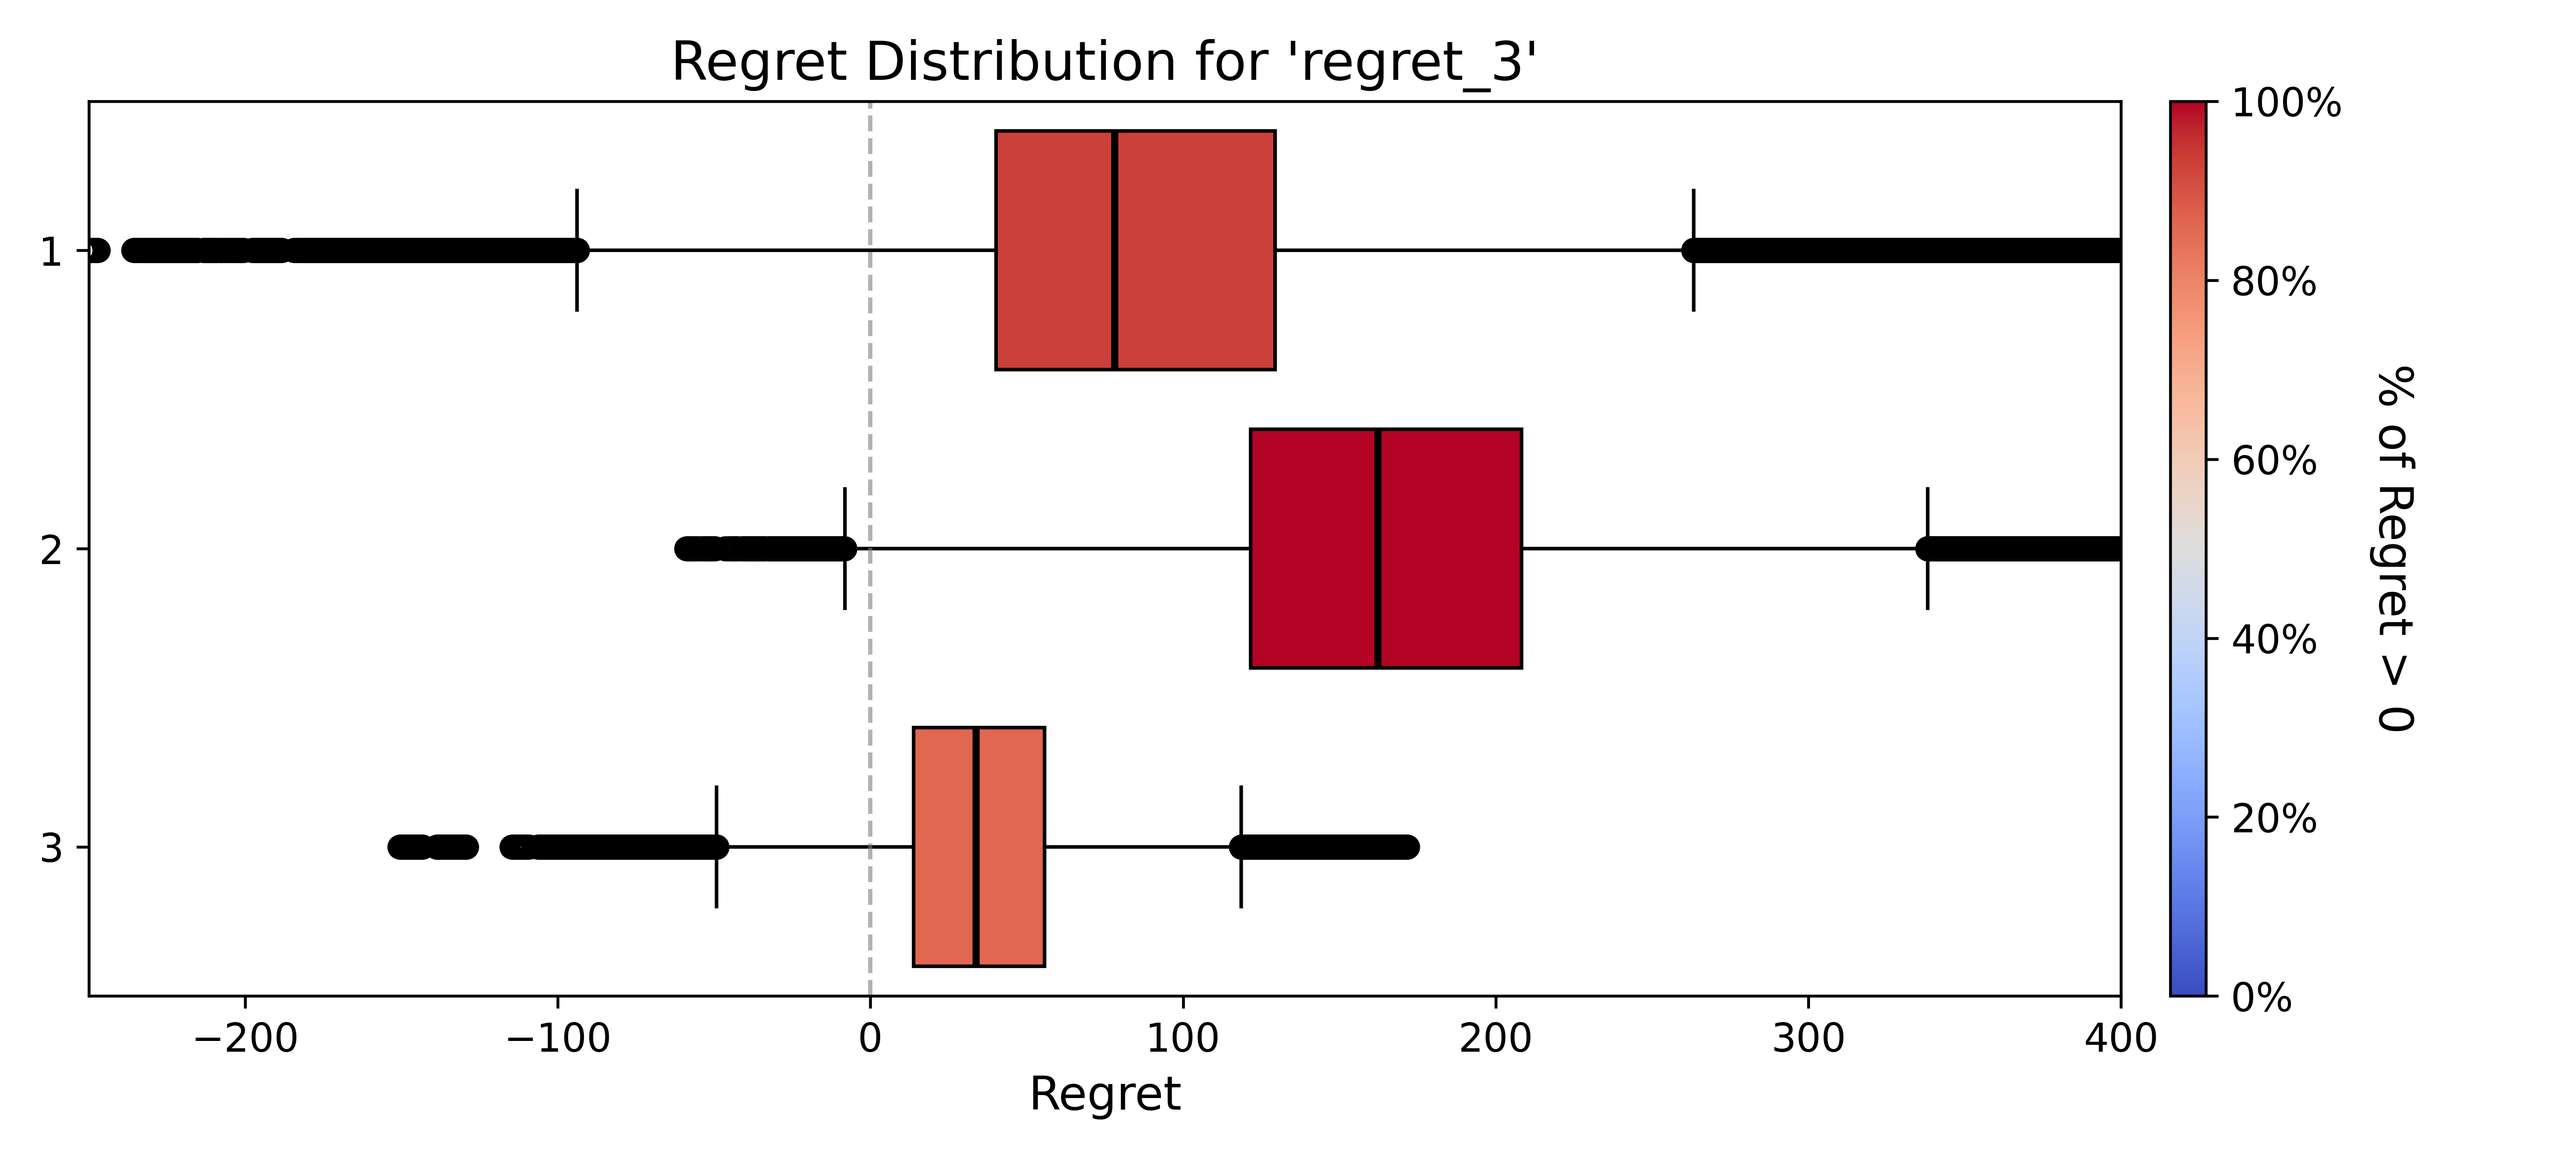
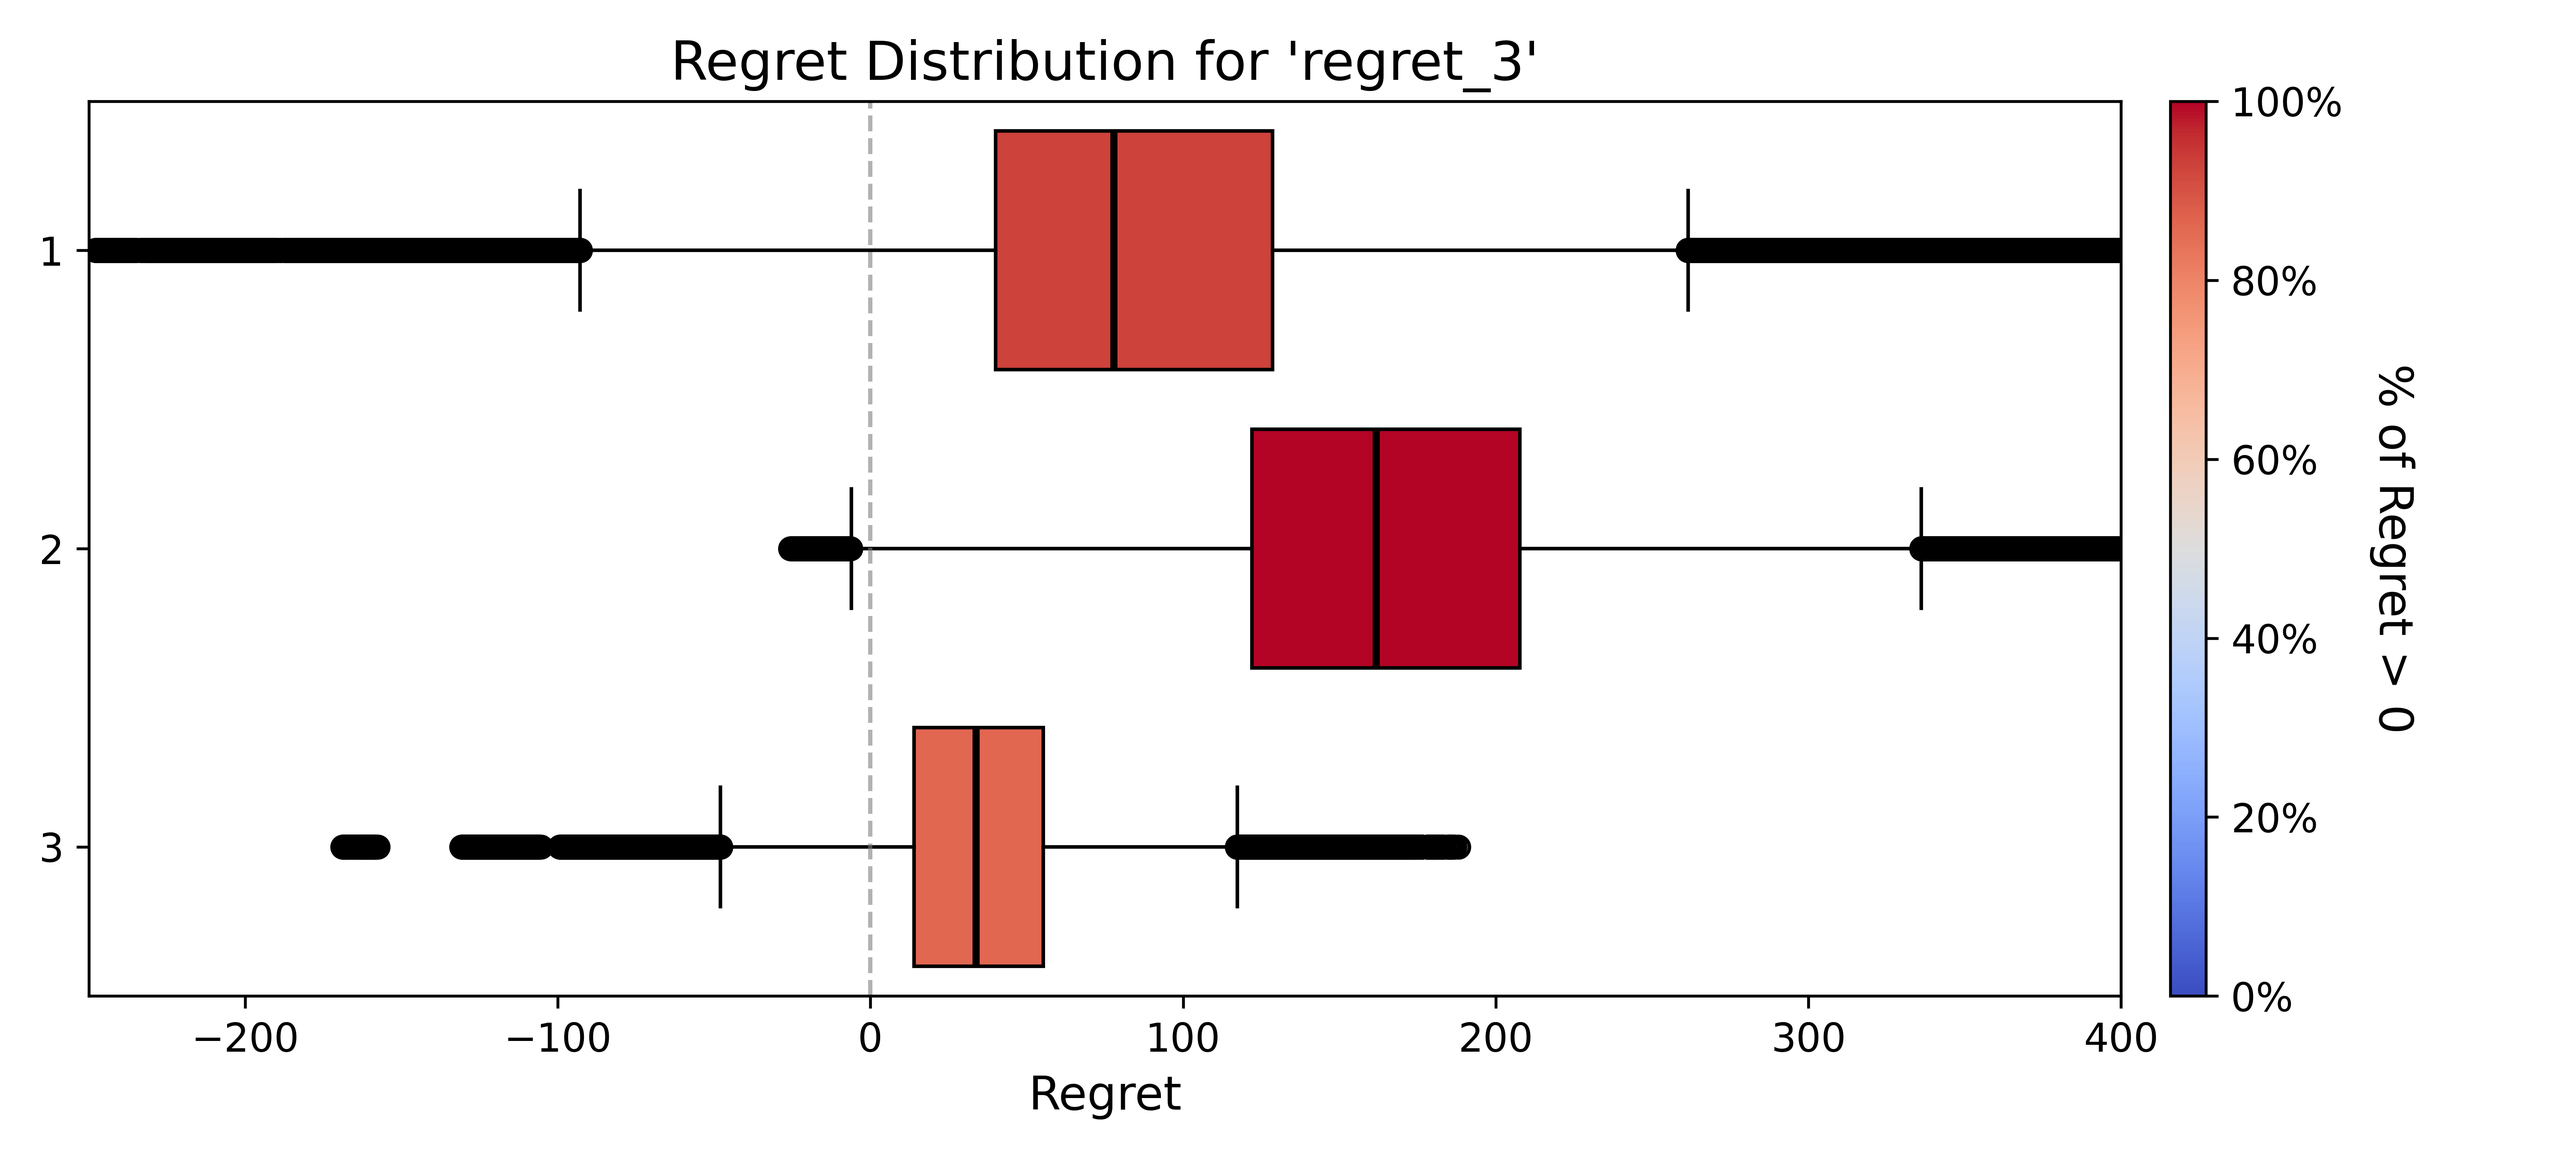
Refined/added new plots from reviewer comments

Changed region(s): [[0.2493, 0.4356, 0.3428, 0.4978], [0.1247, 0.7156, 0.2182, 0.7467], [0.5298, 0.7156, 0.5922, 0.7467]]

diff --git a/sdplot_5_all.py b/sdplot_5_all.py
@@ -1,0 +1,129 @@
+import numpy as np
+import pandas as pd
+import matplotlib.pyplot as plt
+
+# Load and merge
+experiments = pd.read_csv("experiments.csv")
+outcomes = pd.read_csv("outcomes.csv")
+data = pd.concat([experiments, outcomes], axis=1)
+
+# Define filter conditions for columns
+def get_filtered_data(data, filter_name):
+    if filter_name == "Unfiltered":
+        return data.copy()
+    elif filter_name == "Auction=True":
+        return data[data["Auction"] == True].reset_index(drop=True)
+    elif filter_name == "Auction=False":
+        return data[data["Auction"] == False].reset_index(drop=True)
+    elif filter_name == "Integration=True,\nProcurement=False":
+        CRC_interval = (0, 100)
+        filter = data[(data["Integration"] == True) & (data["crc"] >= CRC_interval[0]) & (data["crc"] < CRC_interval[1])].reset_index(drop=True)
+        return filter[filter["Procurement"] == False].reset_index(drop=True)
+    elif filter_name == "Integration=True,\nProcurement=True":
+        CRC_interval = (0, 100)
+        filter = data[(data["Integration"] == True) & (data["crc"] >= CRC_interval[0]) & (data["crc"] < CRC_interval[1])].reset_index(drop=True)
+        return filter[filter["Procurement"] == True].reset_index(drop=True)
+
+filter_names = [
+    "Unfiltered",
+    "Auction=True",
+    "Auction=False",
+    "Integration=True,\nProcurement=False",
+    "Integration=True,\nProcurement=True"
+]
+
+# Define regret columns for rows
+regret_cols = ["regret_1", "regret_2"]
+row_labels = ["Regret 1", "Regret 2"]
+
+# Create the figure with 2 rows x 5 columns
+fig, axes = plt.subplots(2, 5, figsize=(5.5, 6), sharey='row')
+
+# Collect box data and densities for both regrets
+all_box_data = []
+all_densities = []
+
+for row_idx, regret_col in enumerate(regret_cols):
+    row_box_data = []
+    row_densities = []
+    
+    for col_idx, filter_name in enumerate(filter_names):
+        filtered_data = get_filtered_data(data, filter_name)
+        
+        # Get the regret values for this filter
+        box_data = filtered_data[regret_col]
+        row_box_data.append(box_data)
+        
+        # Calculate density (fraction with regret > 0)
+        if len(filtered_data) > 0:
+            density = (filtered_data[regret_col] > 0).mean()
+        else:
+            density = 0
+        row_densities.append(density)
+    
+    all_box_data.append(row_box_data)
+    all_densities.append(row_densities)
+
+# Create the plots
+for row_idx, regret_col in enumerate(regret_cols):
+    for col_idx, filter_name in enumerate(filter_names):
+        ax = axes[row_idx, col_idx]
+        
+        box_data = all_box_data[row_idx][col_idx]
+        density = all_densities[row_idx][col_idx]
+        
+        # Color box based on density using coolwarm colormap
+        color = plt.cm.coolwarm(density)
+        
+        # Create single boxplot
+        bp = ax.boxplot([box_data], positions=[1],
+                        patch_artist=True,
+                        boxprops=dict(linewidth=1),
+                        medianprops=dict(color='black', linewidth=2),
+                        widths=0.6, whis=2)
+        
+        # Apply color to box
+        bp["boxes"][0].set_facecolor(color)
+        
+        # Add horizontal line at y = 0
+        ax.axhline(y=0, color='black', linestyle='-', linewidth=1, alpha=0.7)
+        
+        # Remove x-axis ticks
+        ax.set_xticks([])
+        
+        # Add grid
+        ax.grid(True, alpha=0.3, axis='y')
+        
+        # Set title for first row only
+        if row_idx == 0:
+            ax.set_title(filter_name, fontsize=9, fontweight='bold')
+        
+        # Set y-axis label for first column only
+        if col_idx == 0:
+            ax.set_ylabel(row_labels[row_idx], fontsize=11, fontweight='bold')
+        
+        # # Add density and count annotation
+        # n_points = len(box_data)
+        # ax.text(0.95, 0.95, f'd={density:.2f}\nn={n_points}', 
+        #         transform=ax.transAxes, fontsize=8, verticalalignment='top',
+        #         horizontalalignment='right', bbox=dict(boxstyle='round', facecolor='white', alpha=0.8))
+
+# Adjust layout
+plt.tight_layout()
+
+plt.savefig("sdplot_5_all.png", dpi=600, bbox_inches='tight')
+plt.show()
+
+# Print summary statistics
+print("\n" + "="*70)
+print("Summary: Density (fraction with regret > 0) for each filter")
+print("="*70)
+
+for row_idx, regret_col in enumerate(regret_cols):
+    print(f"\n{row_labels[row_idx]}:")
+    print("-" * 50)
+    for col_idx, filter_name in enumerate(filter_names):
+        filter_label = filter_name.replace('\n', ' ')
+        density = all_densities[row_idx][col_idx]
+        n_points = len(all_box_data[row_idx][col_idx])
+        print(f"  {filter_label}: density={density:.3f} (n={n_points})")

diff --git a/sdplot_2_alternative.py b/sdplot_2_alternative.py
@@ -10,7 +10,7 @@ data = pd.concat([experiments, outcomes], axis=1)
 # Filter Integration == False
 data = data[data["Auction"] == False].reset_index(drop=True)
 data = data[data["Integration"] == True].reset_index(drop=True)
-data = data[data["crc"] < 70].reset_index(drop=True)
+data = data[data["crc"] < 100].reset_index(drop=True)
 data_true = data[data["Procurement"] == True].reset_index(drop=True)
 data_false = data[data["Procurement"] == False].reset_index(drop=True)
 
@@ -58,8 +58,8 @@ positions_true = [0.7, 2.9, 5.1, 7.3]
 positions_false = [1.7, 3.9, 6.1, 8.3]
 
 # Color boxes based on density using the magma colormap (dark purple for low density, yellow/white for high)
-colors_true = [plt.cm.magma_r(d) for d in densities_true]
-colors_false = [plt.cm.magma_r(d) for d in densities_false]
+colors_true = [plt.cm.coolwarm(d) for d in densities_true]
+colors_false = [plt.cm.coolwarm(d) for d in densities_false]
 
 bp1 = plt.boxplot(box_data_true, positions=positions_true, patch_artist=True, 
                   boxprops=dict(linewidth=1),
@@ -145,8 +145,8 @@ plt.grid(True, alpha=0.3, axis='y')
 plt.axhline(y=0, color='black', linestyle='-', linewidth=1, alpha=0.7)
 # plt.xlim(0.5, len(EUA_intervals) + 0.5)
 # get ylimits 
-y_limits = plt.ylim()
-plt.ylim(-150, y_limits[1])
+# y_limits = plt.ylim()
+# plt.ylim(-200, y_limits[1])
 
 plt.tight_layout()
 plt.savefig("sd_2_integration_false_only.png", dpi=600)
